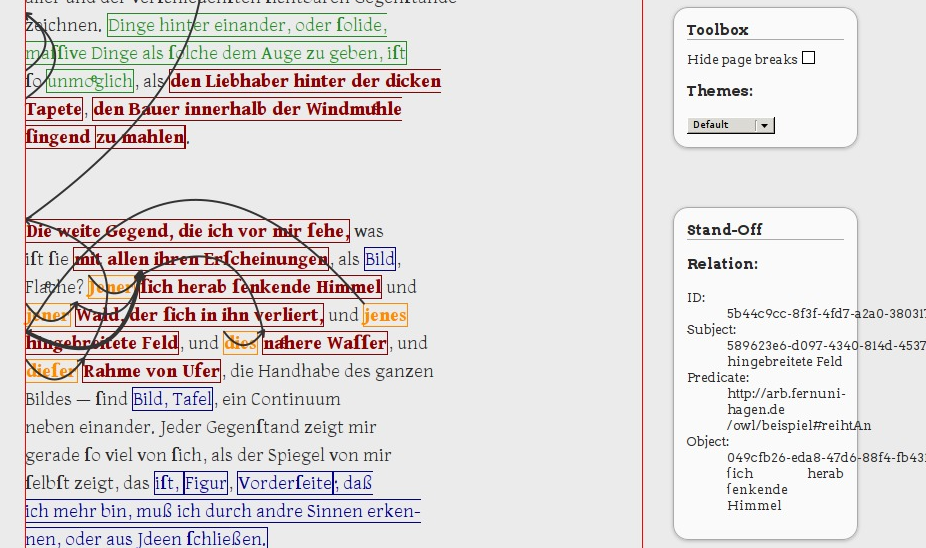
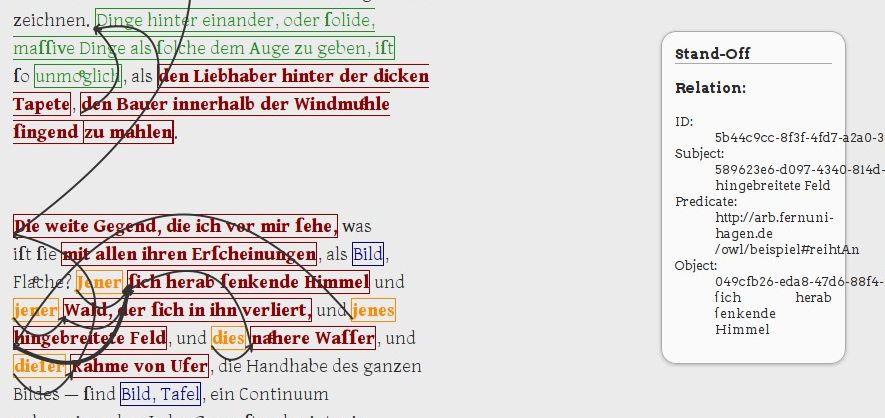
Fixing relation arrows misplacement because of html box model.

diff --git a/utils/tei/jannotation.js b/utils/tei/jannotation.js
@@ -4,12 +4,15 @@ function drawRelations (canvasId, relations) {
 	dy = canvas.offset().top;
     $.each(relations, function (count, rel) {
 	console.log("Drawing relation " + rel.relationId + ": " + rel.subject + " " + rel.predicate + " " + rel.object);
-	var subOffset = $("[eid|='"+rel.subject+"']").first().offset(),
-	    objOffset = $("[eid|='"+rel.object+"']").first().offset(),
+	console.log($("[eid|='"+rel.subject+"'] > .relationanchor"));
+	var sub = $("[eid|='"+rel.subject+"'] > .relationanchor"),
+	    subOffset = sub.offset(),
+	    obj = $("[eid|='"+rel.object+"'] > .relationanchor"),
+	    objOffset = obj.offset(),
 	    ax = subOffset.left - dx,
-	    ay = subOffset.top - dy,
+	    ay = subOffset.top - dy + 0.7*parseInt(sub.css("line-height")),
 	    bx = objOffset.left - dx,
-	    by = objOffset.top - dy,
+	    by = objOffset.top - dy + 0.7*parseInt(obj.css("line-height")),
 	    // sehne s
 	    sx = ax - bx,
 	    sy = ay - by,
@@ -23,6 +26,8 @@ function drawRelations (canvasId, relations) {
 	    // center
 	    cx = (0.5 * (ax + bx)) + (r/q * 0.5 * (ay - by) / ls),
 	    cy = (0.5 * (ay + by)) + (r/q * 0.5 * (bx - ax) / ls);
+	console.log('(' + ax + ', ' + ay + '), (' + bx + ', ' + by + ')');
+	console.log(sub.css("line-height"));
 	canvas.draw({
 	    type: "quadratic",
 	    strokeStyle: '#333',

diff --git a/README.md b/README.md
@@ -180,13 +180,10 @@ may look like in the screenshot below. When you move your mouse over a
 relation, you will see details in the info box on the left:
 ![Demo of Arc Relations](utils/tei/sample.png)
 
-As you can see in the sample, the drawing of semantic relations
-suffers from the html-box-model of inline elements which span multiple
-lines. Proposals on how to improve the drawing of relations are
-welcome.
-
 Note that the canvas for drawing semantic relations is limited to a
-height of 32.000 pixels at the moment.
+height of 32.000 pixels at the moment. One approach would be to scroll
+the canvas into the visible area of the document, but there may be
+better approaches. This needs some fix.
 
 # Roadmap #
 
